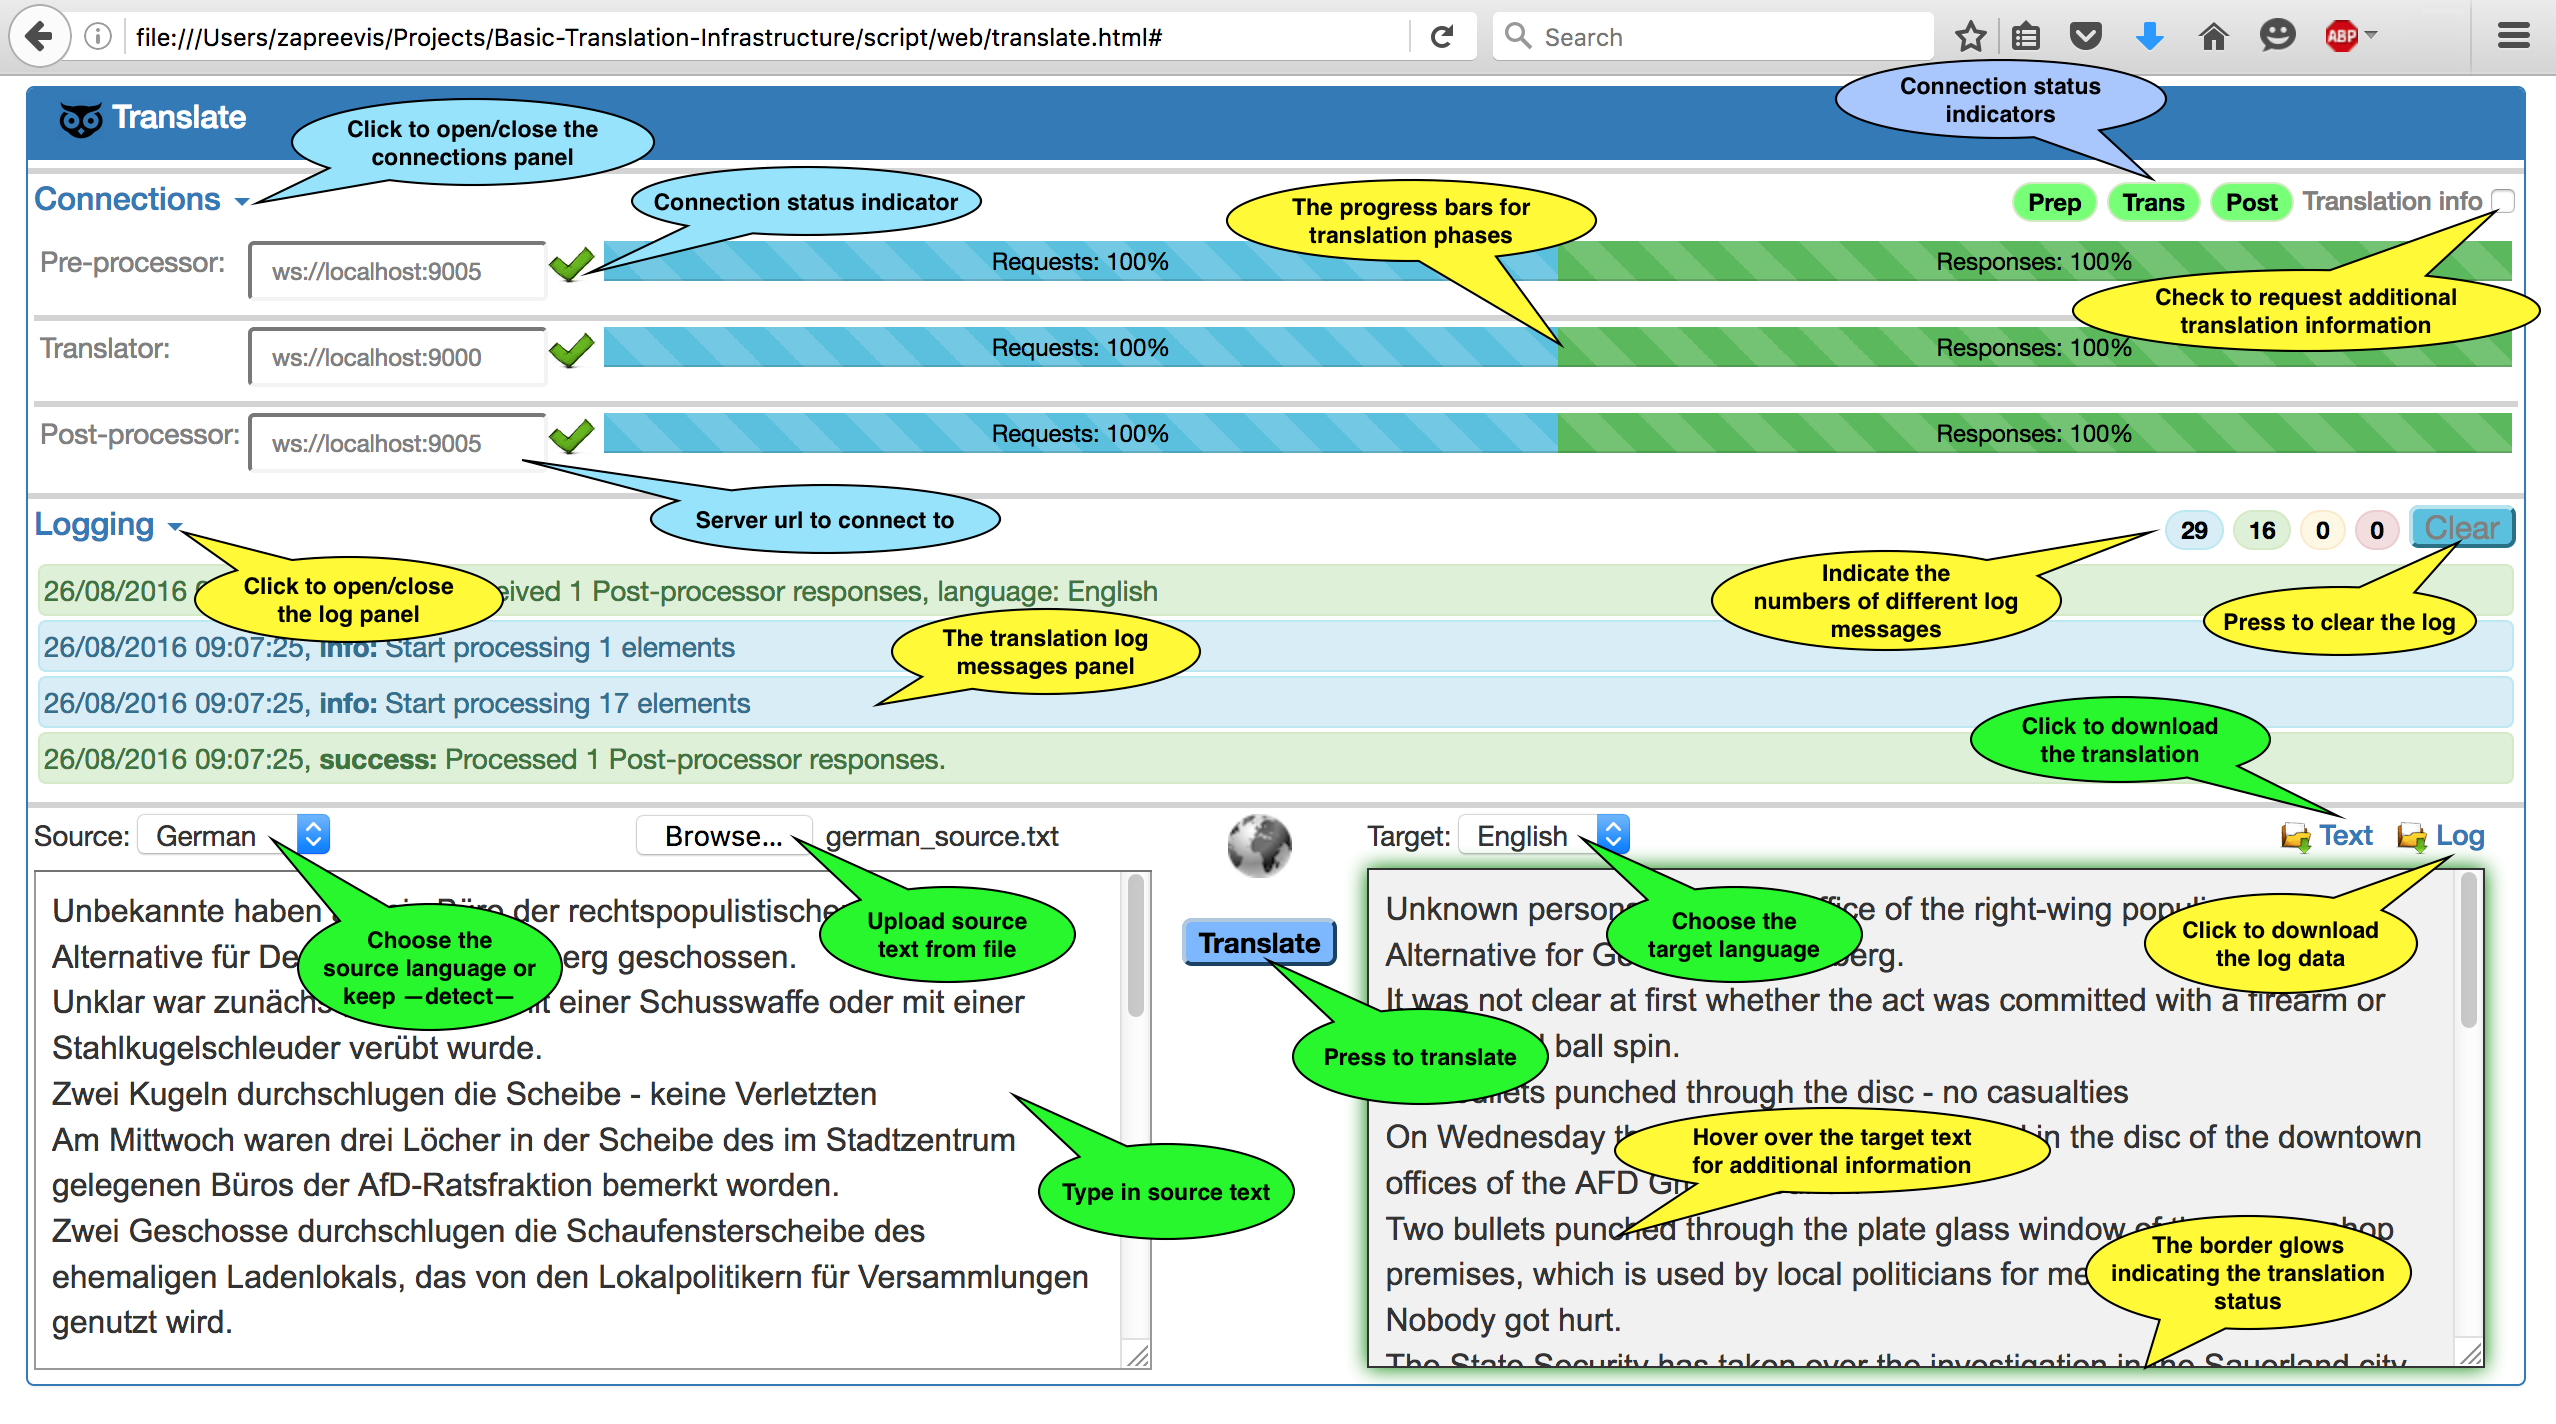
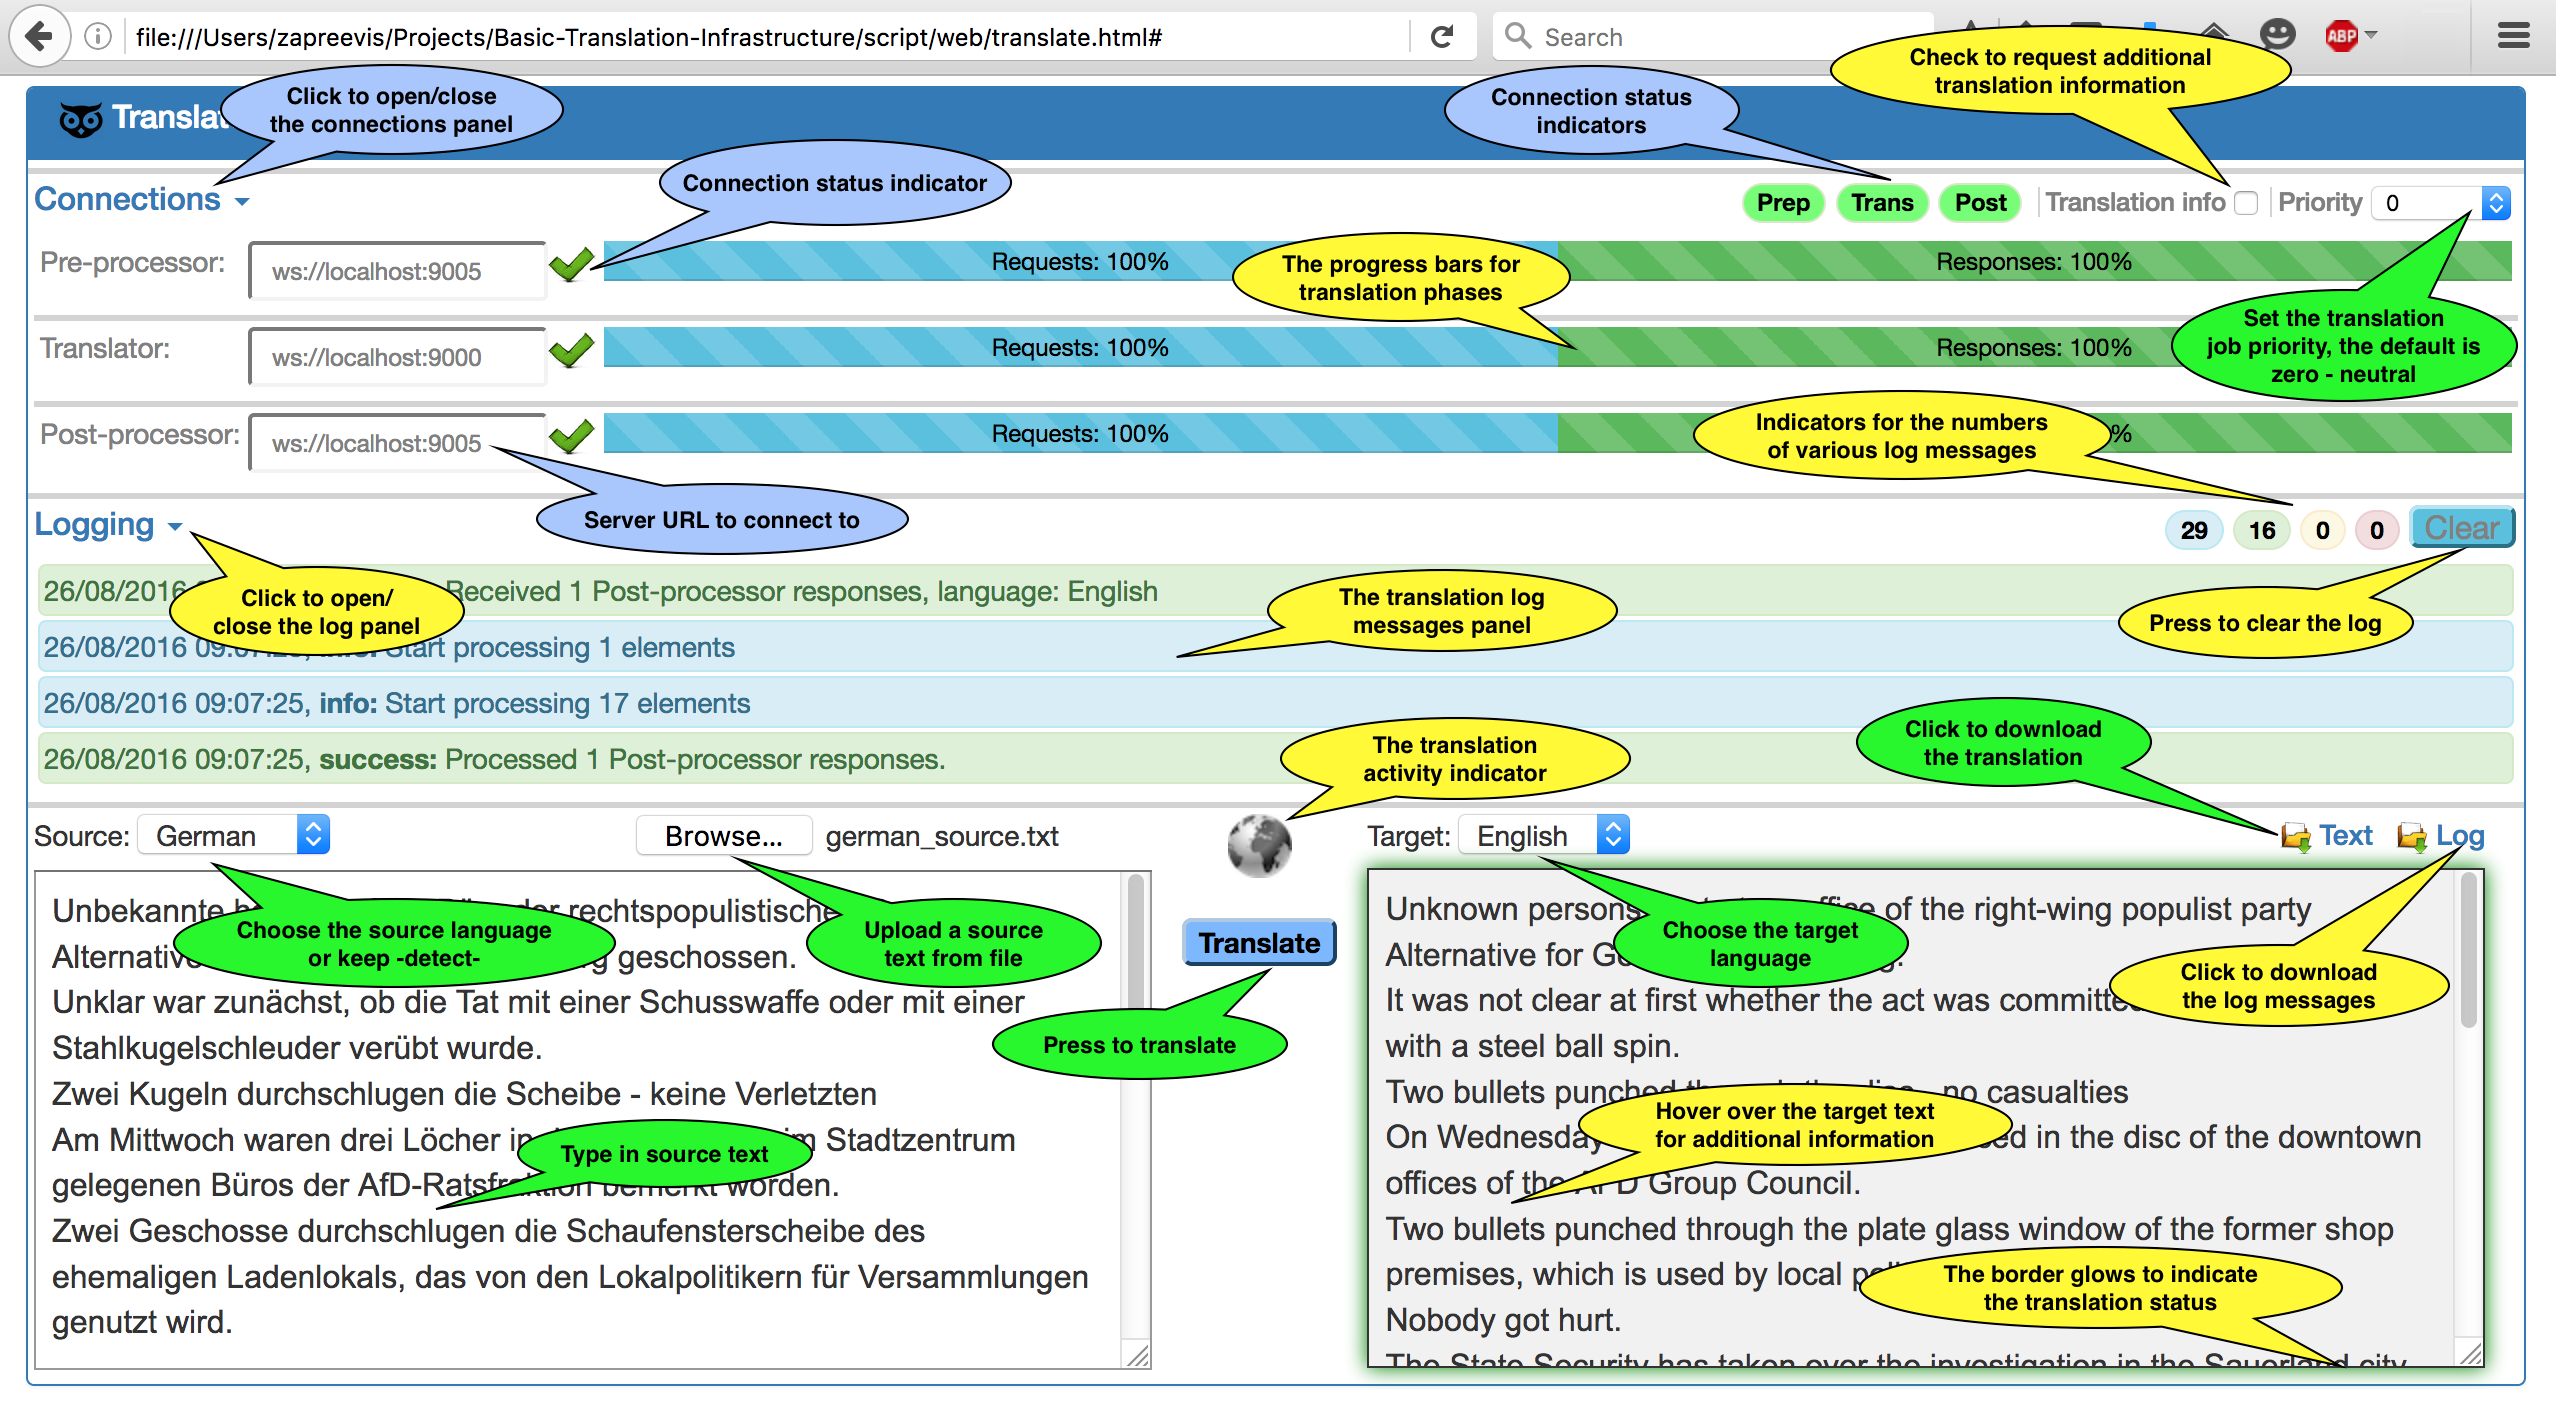
Updating the README.md and related images: Added information on the priorities in the web and command line translation client.

diff --git a/README.md b/README.md
@@ -502,16 +502,19 @@ PARSE ERROR:
 
 Brief USAGE: 
    bpbd-client  [-d <error|warn|usage|result|info|info1|info2|info3>] [-c]
-                [-l <min #sentences per request>] [-u <max #sentences per
-                request>] [-p <post-processor uri>] [-s <server uri>] [-r
-                <pre-processor uri>] [-o <target language>] -O <target file
-                name> -i <source language> -I <source file name> [--]
-                [--version] [-h]
+                [-s <the translation priority>] [-l <min #sentences per
+                request>] [-u <max #sentences per request>] [-p
+                <post-processor uri>] [-t <server uri>] [-r <pre-processor
+                uri>] [-o <target language>] -O <target file name> -i
+                <source language> -I <source file name> [--] [--version]
+                [-h]
 
 For complete USAGE and HELP type: 
    bpbd-client --help
 ```
 One of the main required parameters of the translation client is the input file. The latter should contain text, in **UTF8** encoding - not checked upon, to be translated. In case no pre-processing is requested, *see the [-r] option*, the text is sent to the translation server as is. In that case it is expected that, the text contains one sentence per line and the sentences are lower-cased and tokenized (space-separated).
+
+Each translation can be given a priority with the optional `-s` parameter. The higher the priority the sooner it will be processed by the server(s). This rule includes the translation, the balancer, and the pre/post-processor servers. The default priority value is zero - indicating normal or neutral priority. Jobs with equal priorities are handled at the first-come-first-serve basis. The translation jobs of a given priority are not served until all the jobs of the higher priorities are taken care of.
 
 Once started, if pre-processing server is specified (the `-r` option), the source text is sent for pre-processing. In case the source language is to be detected, the value of the `-i` parameter must be set to `auto`. If pre-processing went without errors, the translation client makes a WebSocket connection to the translation server, reads text from the input file, splits it into a number of translation job requests (which are sent to the translation server) and waits for the reply. Each translation job sent to the server consists of a number of sentences called translation tasks. The maximum and minimum number of translation tasks per a translation job is configurable via additional client parameters. After the text is translated, the information on the translation process is placed into the logging file that has the same name as the output file, but is suffixed with `.log`. The latter contains information such as: if a job/task was canceled, or an error occurred. Next, if post-processing server is specified (the `-p` option), the text is sent to post-processing. After the post-processed text is received, the result is written to the output file. If the post-processing server was not specified then the target text is saved "as is". For more info run: `bpbd-client --help`.
 
@@ -542,7 +545,7 @@ The web client for the translation system is just a web application that uses th
 The web interface looks as follows:
 ![Web Client Translation System Image](./doc/images/translator.png "Web Client Translation System")
 
-As one can see its interface is simple and intuitive, its main purpose to allow to connect to a translation sever/balancer and to perform translations. Source text can be input into the text area on the left by hand or loaded from a file. The translated (target) text can be found in the text area on the right. It is annotated, with a pop-up information. The latter is visualized when a mouse pointer hovers over the sentence translation.
+As one can see its interface is simple and intuitive, its main purpose to allow to connect to a translation sever/balancer and to perform translations. Source text can be input into the text area on the left by hand or loaded from a file. The translated (target) text can be found in the text area on the right. It is annotated, with a pop-up information. The latter is visualized when a mouse pointer hovers over the sentence translation. Note that, the translation priorities in the web interface have the same meaning and functionality as in the command line translation client, see section [Translation client](#translation-client).
 
 Most of the interface controls have tool tips. Yet for the sake of completeness below, we provide an annotated screen shot of the interface:
 ![Web Client Translation System Annotated Image](./doc/images/translator_annot.png "Web Client Translation System - Annotated")
@@ -903,6 +906,7 @@ You should have received a copy of the GNU General Public License along with thi
 * **22.07.2016** - Added information about the Web UI client and the Load Balancer. Updated the document with small changes in the existed text.
 * **05.08.2016** - Added the description of the *bpbd-processor* and related script. Made the corresponding changes in the sections on the console client.
 * **26.08.2016** - Updating the Web UI information, the interface was extended with the pre and post processor servers.
+* **30.08.2016** - The information on translation clients was extended with translation priorities.
 
 ##Appendix Tests
 
